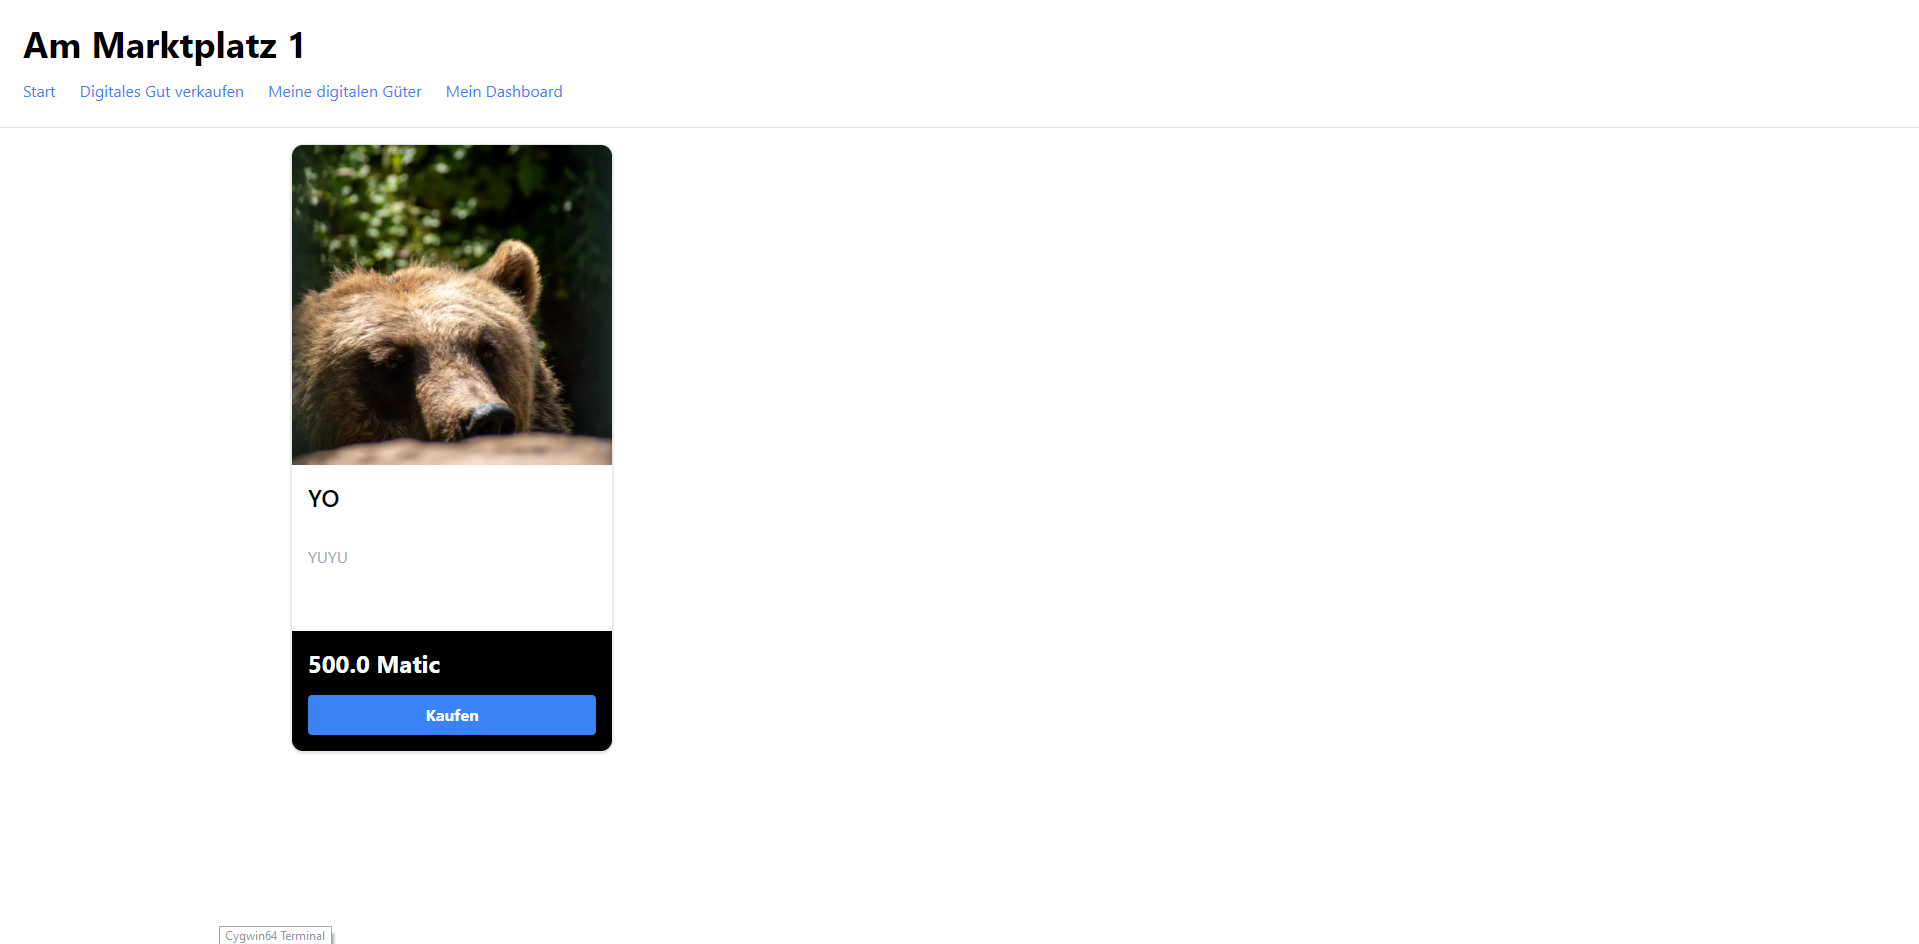
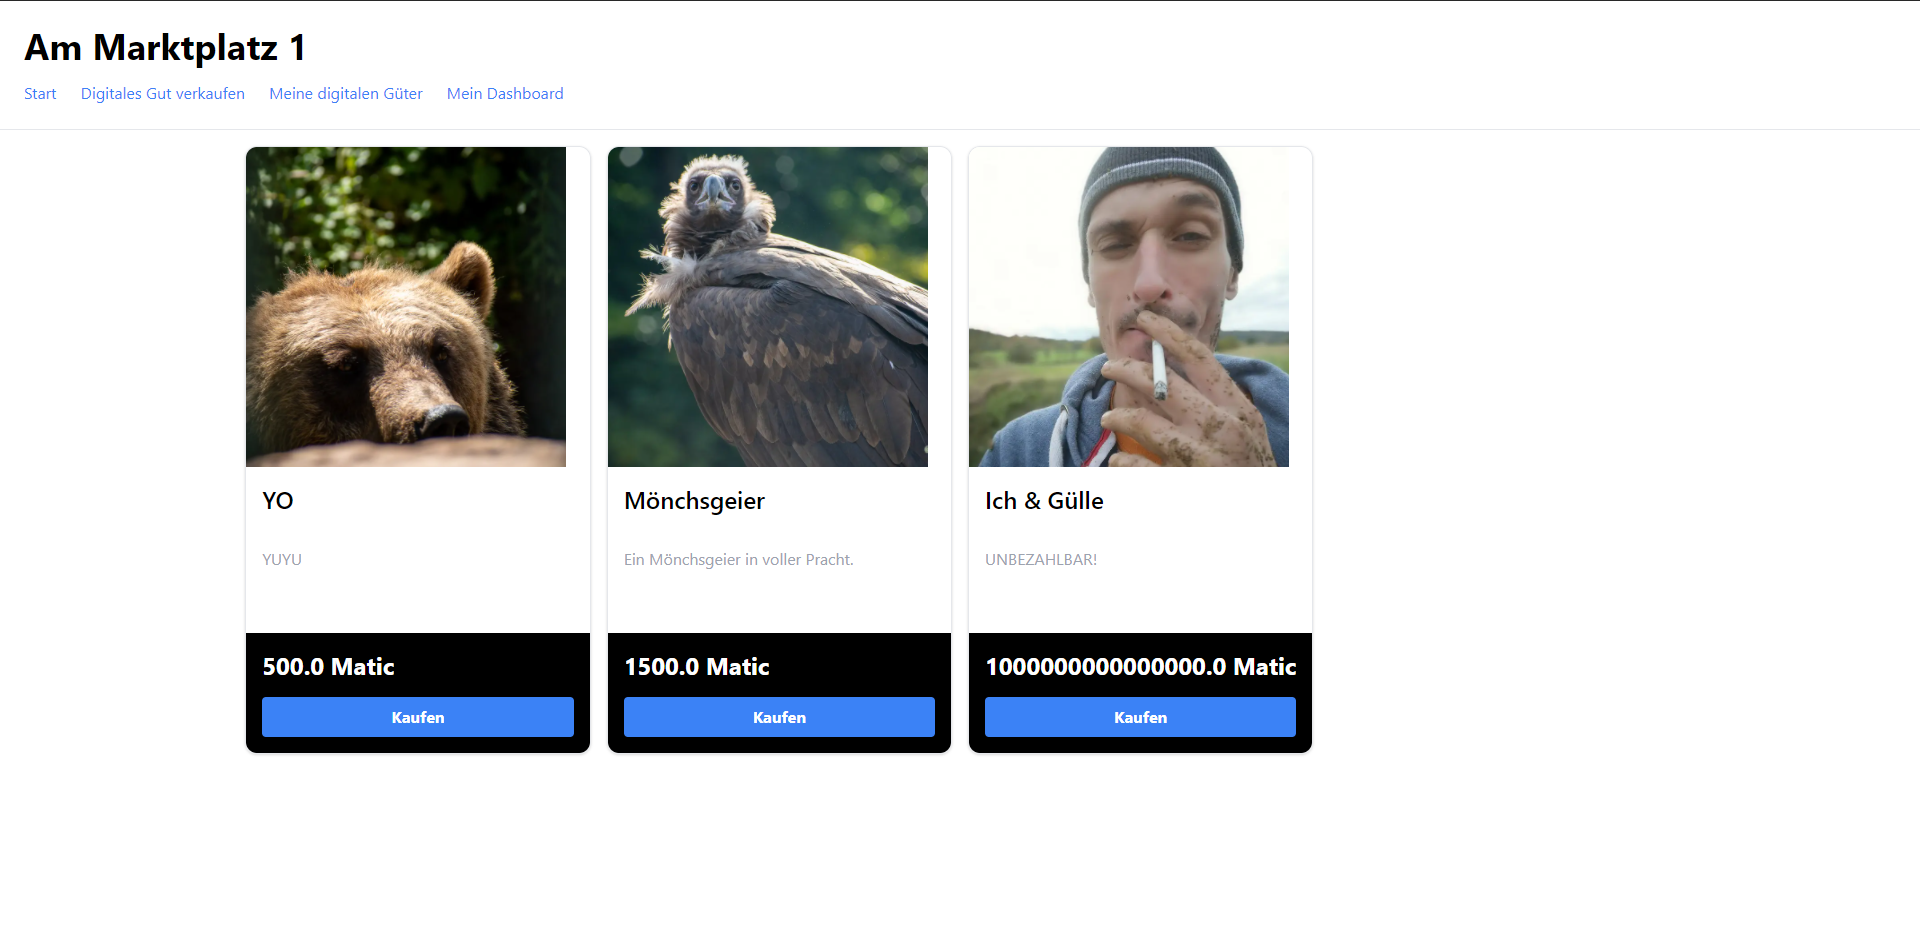
added dashboard

diff --git a/pages/creator-dashboard.js b/pages/creator-dashboard.js
@@ -1,0 +1,117 @@
+import { ethers } from "ethers";
+import { useEffect, useState } from "react";
+import axios from "axios";
+import Web3Modal from "web3modal";
+import Image from "next/image";
+import Head from "next/head";
+
+import { nftmarketaddress, nftaddress } from "../config";
+
+import NFT from "../artifacts/contracts/NFT.sol/NFT.json";
+import NFTMarket from "../artifacts/contracts/NFTMarket.sol/NFTMarket.json";
+
+export default function CreatorDashboard() {
+  const [nfts, setNfts] = useState([]);
+  const [sold, setSold] = useState([]);
+
+  const [loadingState, setLoadingState] = useState("not-loaded");
+  useEffect(() => {
+    loadNFTs();
+  }, []);
+
+  async function loadNFTs() {
+    const web3Modal = new Web3Modal({
+      network: "mainnet",
+      cacheProvider: true,
+    });
+    const connection = await web3Modal.connect();
+    const provider = new ethers.providers.Web3Provider(connection);
+    const signer = provider.getSigner();
+
+    const marketContract = new ethers.Contract(
+      nftmarketaddress,
+      NFTMarket.abi,
+      signer
+    );
+    const tokenContract = new ethers.Contract(nftaddress, NFT.abi, provider);
+    const data = await marketContract.fetchItemsCreated();
+
+    const items = await Promise.all(
+      data.map(async (i) => {
+        const tokenUri = await tokenContract.tokenURI(i.tokenId);
+        const meta = await axios.get(tokenUri);
+        let price = ethers.utils.formatUnits(i.price.toString(), "ether");
+        let item = {
+          price,
+          name: meta.data.name,
+          tokenId: i.tokenId.toNumber(),
+          seller: i.seller,
+          owner: i.owner,
+          sold: i.sold,
+          image: meta.data.image,
+        };
+        return item;
+      })
+    );
+    /* create a filtered array of items that have been sold */
+    const soldItems = items.filter((i) => i.sold);
+    setSold(soldItems);
+    setNfts(items);
+    setLoadingState("loaded");
+  }
+  if (loadingState === "loaded" && !nfts.length)
+    return <h1 className="px-20 py-10 text-3xl">Keine Angebote</h1>;
+  return (
+    <div>
+      <Head>
+        <title>Marktplatz | Dashboard</title>
+      </Head>
+      <div className="p-4">
+        <h2 className="py-2 text-2xl">Meine Angebote</h2>
+        <div className="grid grid-cols-1 gap-4 pt-4 sm:grid-cols-2 lg:grid-cols-4">
+          {nfts.map((nft, i) => (
+            <div key={i} className="overflow-hidden border shadow rounded-xl">
+              <div className="p-4 bg-black">
+                <p className="text-2xl font-bold text-white">{nft.name}</p>
+              </div>
+              <img src={nft.image} className="rounded" />
+              <div className="p-4 bg-black">
+                <p className="text-2xl font-bold text-white">
+                  Preis - {nft.price} Matic
+                </p>
+              </div>
+            </div>
+          ))}
+        </div>
+      </div>
+      <div className="px-4">
+        {Boolean(sold.length) && (
+          <div>
+            <h2 className="py-2 text-2xl">Verkaufte Werke</h2>
+            <div className="grid grid-cols-1 gap-4 pt-4 sm:grid-cols-2 lg:grid-cols-4">
+              {sold.map((nft, i) => (
+                <div
+                  key={i}
+                  className="overflow-hidden border shadow rounded-xl"
+                >
+                  <Image
+                    src={nft.image}
+                    layout="fill"
+                    objectFit="cover"
+                    alt="nft"
+                    className="rounded"
+                  />
+                  <div className="p-4 bg-black">
+                    <p className="text-2xl font-bold text-white">
+                      Preis - {nft.price} Matic
+                    </p>
+                  </div>
+                </div>
+              ))}
+            </div>
+          </div>
+        )}
+      </div>
+    </div>
+  );
+}

diff --git a/pages/my-assets.js b/pages/my-assets.js
@@ -1,0 +1,92 @@
+import { ethers } from "ethers";
+import { useEffect, useState } from "react";
+import axios from "axios";
+import Web3Modal from "web3modal";
+import Image from "next/image";
+import Head from "next/head";
+
+import { nftmarketaddress, nftaddress } from "../config";
+
+import NFT from "../artifacts/contracts/NFT.sol/NFT.json";
+import NFTMarket from "../artifacts/contracts/NFTMarket.sol/NFTMarket.json";
+
+export default function MyAssets() {
+  const [nfts, setNfts] = useState([]);
+  const [loadingState, setLoadingState] = useState("not-loaded");
+
+  useEffect(() => {
+    loadNFTs();
+  }, []);
+
+  async function loadNFTs() {
+    // const web3Modal = new Web3Modal({
+    //   network: "mainnet",
+    //   cacheProvider: true,
+    // })
+    const web3Modal = new Web3Modal();
+    const connection = await web3Modal.connect();
+    const provider = new ethers.providers.Web3Provider(connection);
+    const signer = provider.getSigner();
+
+    const marketContract = new ethers.Contract(
+      nftmarketaddress,
+      NFTMarket.abi,
+      signer
+    );
+    const tokenContract = new ethers.Contract(nftaddress, NFT.abi, provider);
+    const data = await marketContract.fetchMyNFTs();
+
+    const items = await Promise.all(
+      data.map(async (i) => {
+        const tokenUri = await tokenContract.tokenURI(i.tokenId);
+        const meta = await axios.get(tokenUri);
+        let price = ethers.utils.formatUnits(i.price.toString(), "ether");
+        let item = {
+          price,
+          tokenId: i.tokenId.toNumber(),
+          seller: i.seller,
+          owner: i.owner,
+          image: meta.data.image,
+        };
+        return item;
+      })
+    );
+    setNfts(items);
+    setLoadingState("loaded");
+  }
+  if (loadingState === "loaded" && !nfts.length)
+    return (
+      <h1 className="px-20 py-10 text-3xl">
+        Du hast (noch) keine Güter im Besitz.
+      </h1>
+    );
+  return (
+    <div>
+      <Head>
+        <title>Marktplatz | Meine Güte(r)</title>
+      </Head>
+      <div className="flex justify-center">
+        <main className="p-4">
+          <div className="grid grid-cols-1 gap-4 pt-4 sm:grid lg:grid-cols-4">
+            {nfts.map((nft, i) => (
+              <div key={i} className="overflow-hidden border shadow rounded-xl">
+                <Image
+                  className="rounded"
+                  src={nft.image}
+                  layout="fill"
+                  objectFit="cover"
+                  alt={`${nft.tokenId}`}
+                />
+                <div className="p-4 bg-black">
+                  <p className="text-2xl font-bold text-white">
+                    Preis - {nft.price} Matic
+                  </p>
+                </div>
+              </div>
+            ))}
+          </div>
+        </main>
+      </div>
+    </div>
+  );
+}

diff --git a/pages/create-item.js b/pages/create-item.js
@@ -83,7 +83,7 @@ export default function CreateItem() {
   return (
     <div>
       <Head>
-        <title>Digitales Gut verkaufen</title>
+        <title>Marktplatz | Digitales Gut verkaufen</title>
       </Head>
       <div className="flex justify-center">
         <div className="flex flex-col w-1/2 pb-12">

diff --git a/README.md b/README.md
@@ -2,9 +2,25 @@
 
 ## Nur ein weiterer NFT Marktplatz
 
+### create an asset
+
+![Screenshot](shots/sneakp.png)
+
+### List All Assets
+
 ![Screenshot1](shots/sneakp1.png)
 
-### Basic Sample Hardhat Project
+### List Your Owned Assets
+
+![Screenshot2](shots/sneakp2.png)
+
+### Dashboard
+
+![Screenshot3](shots/sneakp3.png)
+
+---
+
+#### Basic Sample Hardhat Project
 
 This project demonstrates a basic Hardhat use case. It comes with a sample contract, a test for that contract, a sample script that deploys that contract, and an example of a task implementation, which simply lists the available accounts.
 
